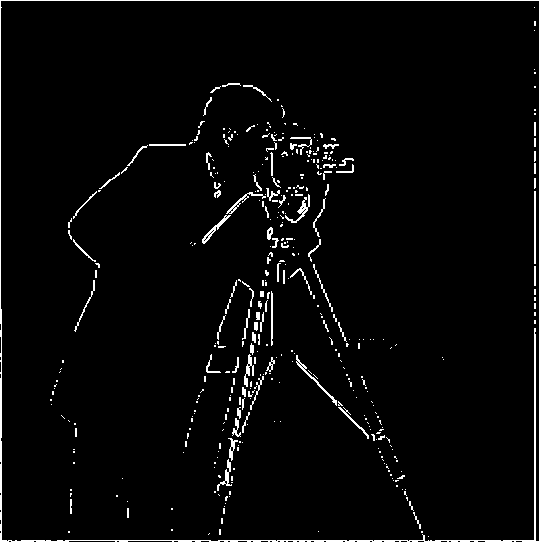
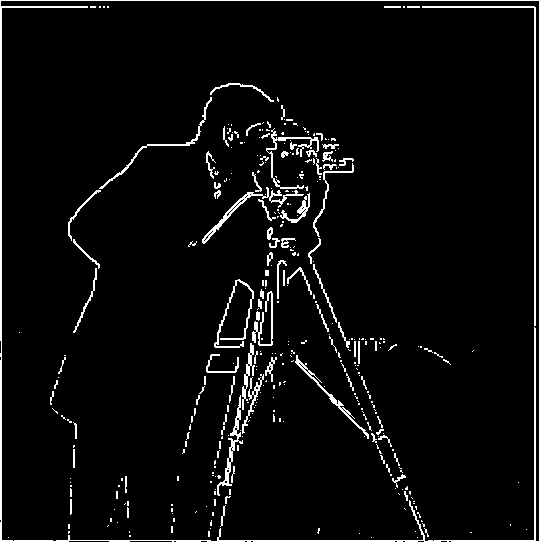
new

diff --git a/run_part1_2.py b/run_part1_2.py
@@ -19,7 +19,7 @@ from src.filters import (
 # ---- settings ----
 CAM_PATH  = "data/cameraman.png"   # your file
 SAVE_DIR  = "results/part1_2"
-THRESH    = 0.42                  # tweak by eye
+THRESH    = 0.34                  # tweak by eye
 
 def to_gray01(im):
     im = img_as_float(im)
